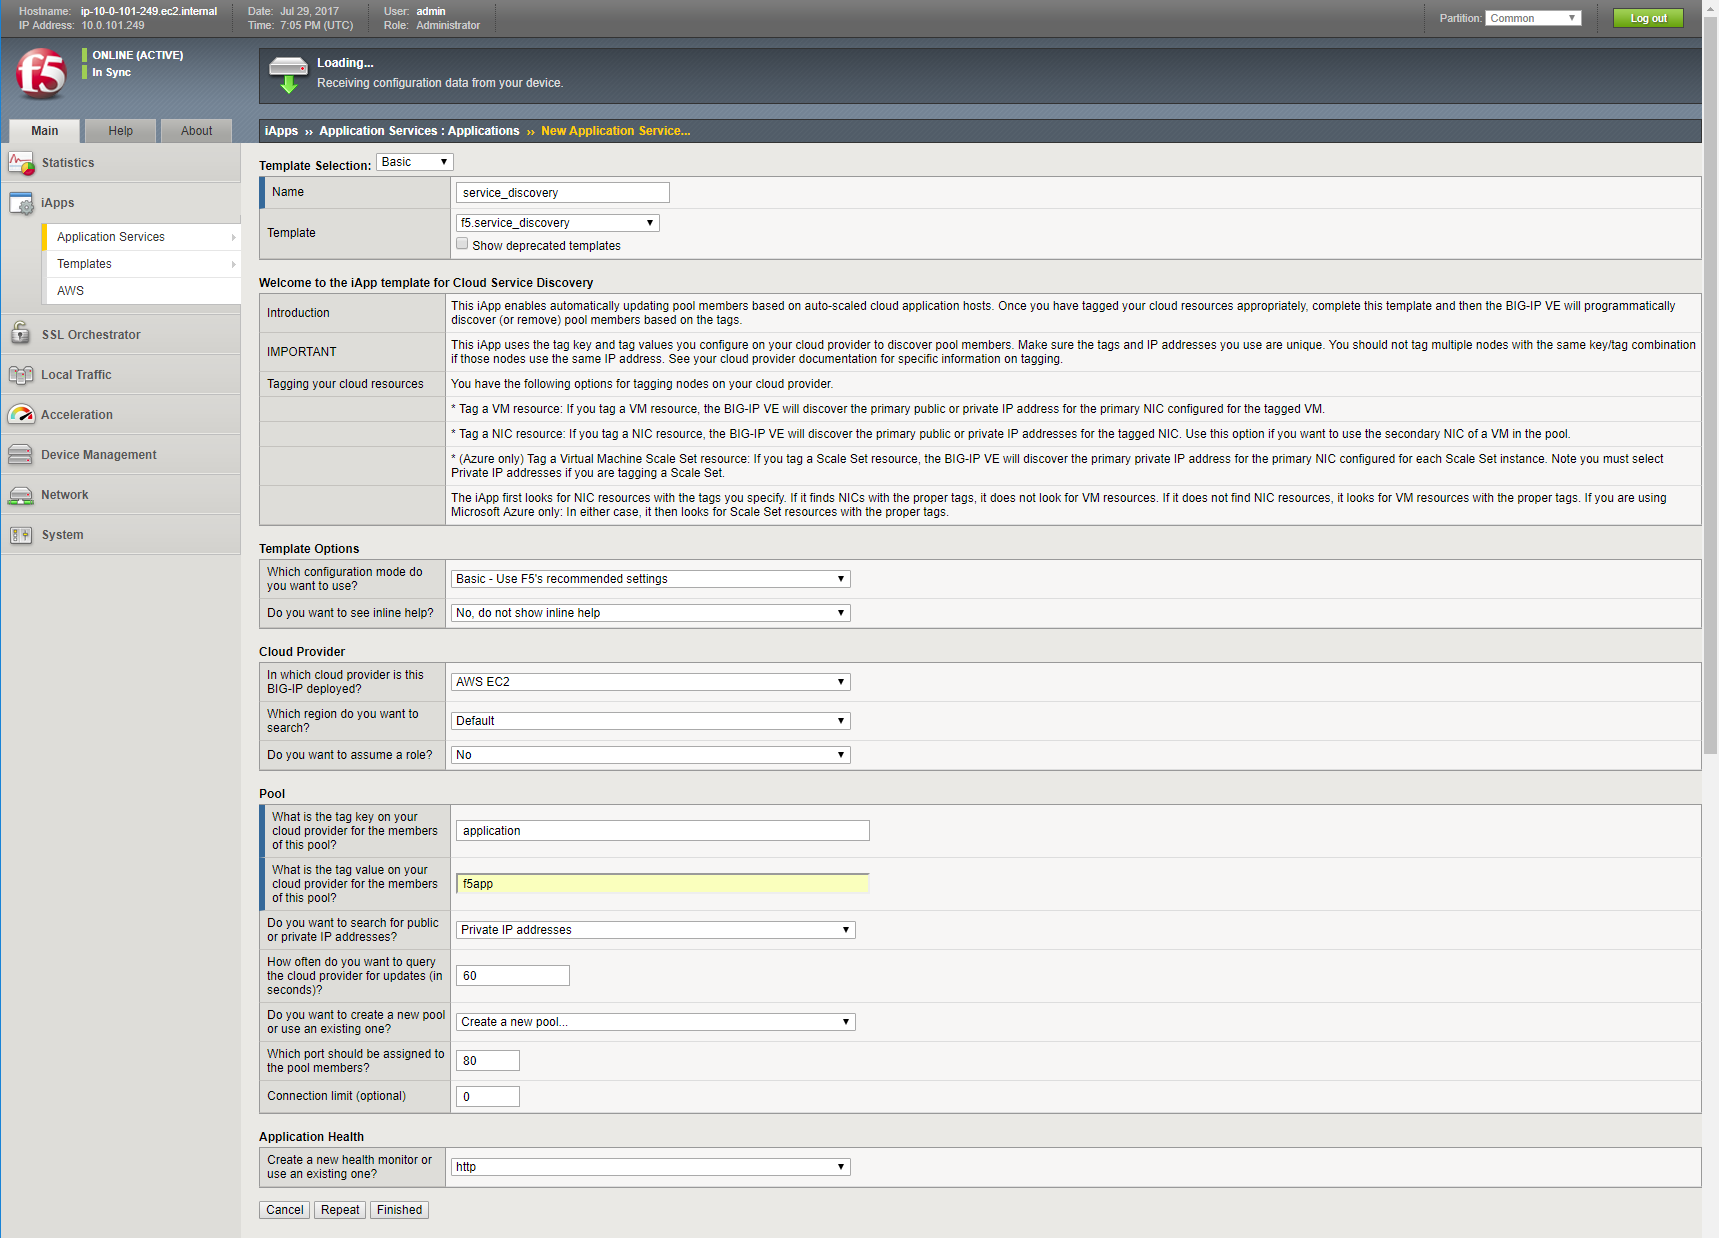
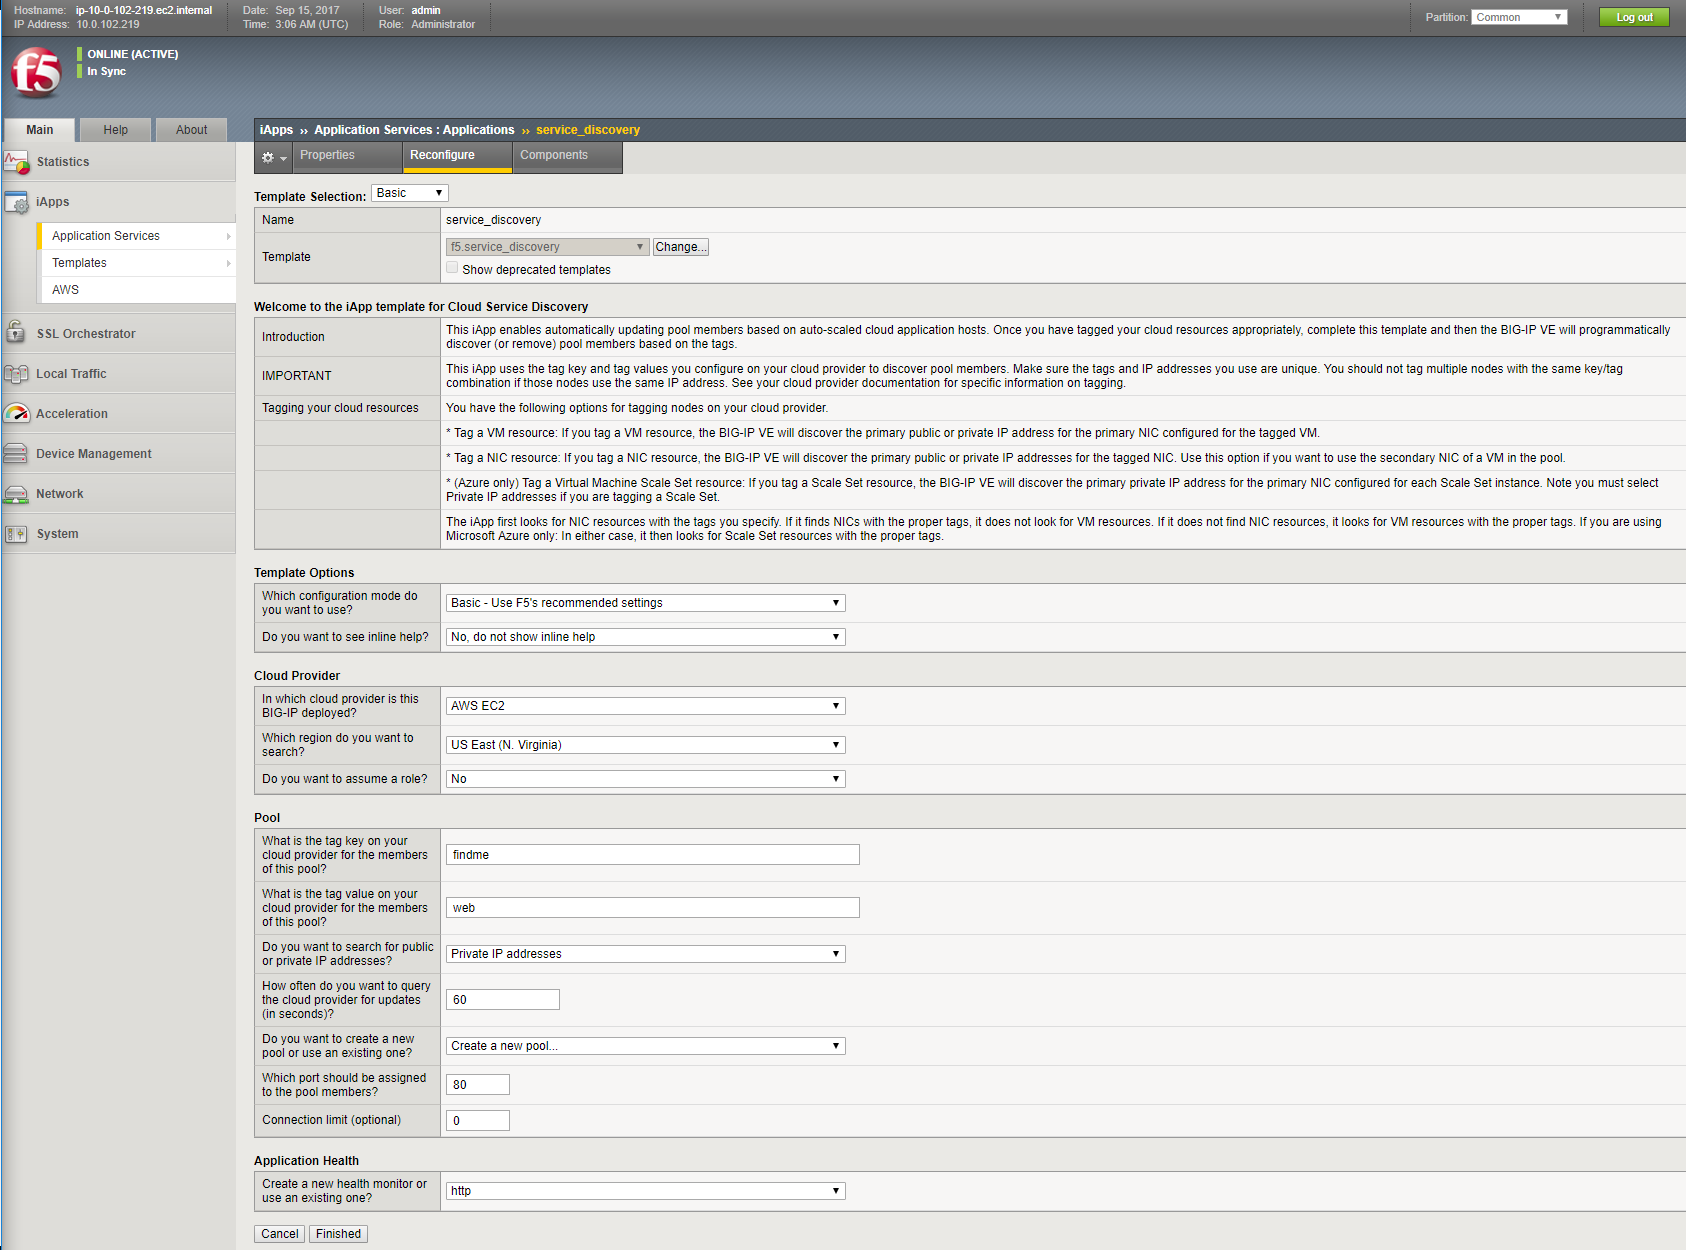
documentation edits based on team feedback

Changed region(s): [[0.0, 0.0, 1.0, 1.0], [0.987, 0.9208, 1.0, 0.9515]]

diff --git a/docs/class1/module2/lab1.rst b/docs/class1/module2/lab1.rst
@@ -1,28 +1,6 @@
 Explore the F5 / AWS lab environment
 ------------------------------------
 
-CloudFormation templates are the AWS declarative method to deploy full application stacks to AWS.
-
-F5 Virtual Edition can be deployed via CloudFormation Templates and are an F5 officially supported deployment method.
-
-During the previous lab you deployed via Terraform the following F5 CFT Solution.
-
-- Auto scaling the BIG-IP VE Web Application Firewall in AWS:
-
-https://github.com/F5Networks/f5-aws-cloudformation/tree/master/supported/solutions/autoscale/waf/
-
-.. image:: ./images/config-diagram-autoscale-waf.png
-  :scale: 50%
-
-...you also deployed:
-
-- "Deploying the BIG-IP in AWS - Clustered 2-NIC across Availability Zones" which supports automatic Big-IQ Licensing (we opted to use hourly billing in the previous lab):
-
-https://github.com/F5Networks/f5-aws-cloudformation/tree/master/supported/cluster/2nic/across-az-ha
-
-.. image:: ./images/aws-2nic-cluster-across-azs.png
-  :scale: 50%
-
 1. Use the alias aws console link, email address, and shortUrl as password to login to the aws console.
 
 .. image:: ./images/aws-console-login1.png
@@ -51,22 +29,17 @@ https://f5agility2017.signin.aws.amazon.com/console?region=ap-southeast-1
 .. image:: ./images/aws-console-vpc.png
   :scale: 50%
 
-4. Track things are going well in the AWS management console: Services => Management Tools => CloudFormation template. When done, both of your deployed CloudFormation templates will be Status: CREATE_COMPLETE. Here you can expand and review the steps or troubleshoot if something went wrong.
-
-.. image:: ./images/aws-console-cloudformation.png
-  :scale: 50%
-
-5. Navigate to Services => Compute => EC2 => INSTANCES => Instances. The web application is hosted on webaz1.0 in one availability zone and webaz2.0 in another availability zone. Highlight web-az1.0, in the "Description" tab below note the availability zone. Highlight web-az2.0 and do the same. Select the Tags tab for web-az1.0 and web-az2.0. We will use these tags later in the lab to autodiscover these instances as pool members from a Big-IP VE.
+4. Navigate to Services => Compute => EC2 => INSTANCES => Instances. The web application is hosted on webaz1.0 in one availability zone and webaz2.0 in another availability zone. Highlight web-az1.0, in the "Description" tab below note the availability zone. Highlight web-az2.0 and do the same. Select the Tags tab for web-az1.0 and web-az2.0. We will use these tags later in the lab to autodiscover these instances as pool members from a Big-IP VE.
 
 .. image:: ./images/aws-console-ec2-az.png
   :scale: 50%
 
-6. Three Big-IP virtual editions are running:
+5. Three Big-IP virtual editions are running:
 
    - BIGIP1 and BIGIP2 are in a cross-availability zone cluster that was deployed via a CloudFormation template.
    - BIG-IP Autoscale Instance is the first F5 web application firewall provisioned for Application Security Manager with a low, medium, or high starter policy enabled. Depending on configurable traffic thresholds the WAF will scale from 1 to N instances. These thresholds are controlled via an auto scale group policy.
 
-7.  Cloud-init. Version 13 of Big-IP supports cloud-init. Right click on BIGIP1 => Instance Settings => View/Change User Data. Cloud-init is the industry standard way to inject commands into an F5 cloud image to automate all aspects of the on-boarding process: https://cloud-init.io/.
+6.  Cloud-init. Version 13 of Big-IP supports cloud-init. Right click on BIGIP1 => Instance Settings => View/Change User Data. Cloud-init is the industry standard way to inject commands into an F5 cloud image to automate all aspects of the on-boarding process: https://cloud-init.io/.
 
 .. image:: ./images/aws-console-cloud-init1.png
   :scale: 50%
@@ -74,11 +47,11 @@ https://f5agility2017.signin.aws.amazon.com/console?region=ap-southeast-1
 .. image:: ./images/aws-console-cloud-init2.png
   :scale: 50%
 
-8. Services => Compute => EC2 => AUTO SCALING => Auto Scaling Groups.
+7. Services => Compute => EC2 => AUTO SCALING => Auto Scaling Groups.
    - In the search filter enter your username. Highlight the waf... auto scaling group.
    - Under the "Scaling Policies" tab below review the policy for scaling up and scaling down.
 
-9. Services => Compute => EC2 => LOAD BALANCING => Load Balancers. In the search filter enter your username. You should see your newly created elastic load balancers running.
+8. Services => Compute => EC2 => LOAD BALANCING => Load Balancers. In the search filter enter your username. You should see your newly created elastic load balancers running.
 
    - Choose the tf-elb-userXX load balancer and highlight the "Instances" tab below. This is the load balancer that is in front of your simple web application hosted on web-az1.0 and web-az2.0.
    - Choose the waf-userXX load balancer and highlight the "Instances" tab below. This is the load balancer that is in front of your F5 web application firewall(s).
@@ -88,7 +61,7 @@ https://f5agility2017.signin.aws.amazon.com/console?region=ap-southeast-1
 .. image:: ./images/aws-console-elb2.png
   :scale: 50%
 
-10. GitHub. Fully supported F5 Networks Solutions are hosted in the official F5 Networks GitHub repository:
+9. GitHub. Fully supported F5 Networks Solutions are hosted in the official F5 Networks GitHub repository:
 
    - https://github.com/f5networks
    - We are running the lab from the f5-super-devops container: https://github.com/f5devcentral/f5-super-netops-container
@@ -100,4 +73,48 @@ https://f5agility2017.signin.aws.amazon.com/console?region=ap-southeast-1
    - Native template formats are also available for Google Cloud Platform (gdm templates): https://github.com/F5Networks/f5-google-gdm-templates
 
 .. image:: ./images/f5-github.png
+  :scale: 50%
+
+10. CloudFormation Templates mock walk-through. CloudFormation templates are the AWS declarative method to deploy full application stacks to AWS.
+
+F5 Virtual Edition can be deployed via CloudFormation Templates and are an F5 officially supported deployment method.
+
+During the previous lab you deployed via Terraform the following F5 CFT Solution.
+
+- "Deploying the BIG-IP in AWS - Clustered 2-NIC across Availability Zones" which supports automatic Big-IQ Licensing (we opted to use hourly billing in the previous lab):
+
+https://github.com/F5Networks/f5-aws-cloudformation/tree/master/supported/cluster/2nic/across-az-ha
+
+.. image:: ./images/aws-2nic-cluster-across-azs.png
+  :scale: 50%
+
+...you also deployed:
+
+- Auto scaling the BIG-IP VE Web Application Firewall in AWS:
+
+https://github.com/F5Networks/f5-aws-cloudformation/tree/master/supported/solutions/autoscale/waf/
+
+.. image:: ./images/config-diagram-autoscale-waf.png
+  :scale: 50%
+
+11. Go to https://github.com/F5Networks/f5-aws-cloudformation/tree/master/supported/cluster/2nic/across-az-ha.
+
+12. Scroll to and then click the "Launch Stack" icon for "Hourly..."
+
+.. image:: ./images/cft1.png
+  :scale: 50%
+
+13. In the "Create Stack" screen, click "Next".
+
+.. image:: ./images/cft2.png
+  :scale: 50%
+
+14. This will render the template from within the AWS console. Fill in the first few parameters by choosing from the drop-down menus. The options present were created previously via Terraform. No need to complete the CloudFormation stack here. Terraform has already stuffed these parameters and fired off the completed CloudFormation template. Think about how many steps we've saved by fully automating the solution. Scroll down and click "Cancel"
+
+.. image:: ./images/cft3.png
+  :scale: 50%
+
+15. Track things are going well in the AWS management console: Services => Management Tools => CloudFormation template. When done, both of your deployed CloudFormation templates will be Status: CREATE_COMPLETE. Here you can expand and review the steps or troubleshoot if something went wrong.
+
+.. image:: ./images/aws-console-cloudformation.png
   :scale: 50%

diff --git a/docs/class1/module1/lab1.rst b/docs/class1/module1/lab1.rst
@@ -117,6 +117,42 @@ When 'terraform apply' completes, note the \*\*aws_alias\*\* and vpc-id values. 
 
 .. warning:: terraform apply will take five minutes to complete, but the environment will not be ready for another 15 minutes as the Big-IP virtual editions and supporting infrastructure wake up. In the meantime, we can begin to explore the AWS lab environment.
 
+What just happened? That was a lot of random text scrolling in my Docker console!
+---------------------------------------------------------------------------------
+
+This is the TL;DR version of the steps completed.
+
+When you clone the git repository, you are pulling down a fresh copy of the all of the files you need to get started. These files are hosted on Github, the most popular online revision control repository, and include:
+
+- Onboarding scripts that create your AWS account and other prerequisites: *f5-super-netops-install.sh*, *addUser.sh*, *export.sh*.
+- all of the terraform configuration files--a declarative, comprehensive representation of our entire application stack:
+
+	*main.tf* - Every terraform configuration has a main.tf. This contains all of the AWS specific (non-F5) environment configuration, including web instances
+
+	*f5-cloudformation-autoscale-waf.tf* and *f5-cloudformation-cross-az-ha-hourly.tf* - Nothing more than a terraform file that takes the officially supported CloudFormation template hosted at:
+
+	https://s3.amazonaws.com/f5-cft/f5-autoscale-bigip.template
+
+	https://s3.amazonaws.com/f5-cft/f5-existing-stack-across-az-cluster-hourly-2nic-bigip.template
+
+	...and stuffs all of the prerequisite parameters so we don't have to do it manually.
+
+	*outputs.tf* - Any variable in the outputs.tf file can be rendered to the console with 'terraform output' and is exposed to other command line tools.
+
+	*vars.tf* - Variables for terraform.
+
+- Handy utilities to help move the lab along with minimum fuss: *lab-info*, *password-reset*, *lab-cleanup*.
+
+The start script takes care of all of the prerequisites to standing up an AWS environment. Precisely:
+
+- Installs all of the necessary software, including: terraform, the aws cli, and various other command line tools.
+- Creates your AWS console login and api account and stores the keys locally for use by the AWS command line.
+- Creates SSH keys for use by all of your EC2 instances: web servers and Big-IP virtual editions.
+- Creates a self-signed SSL certificate for use in deploying https services.
+- Sets the default region: us-east-1 (Virginia), ap-southeast-1 (Singapore), etc.
+
+The terraform files go into effect when you invoke 'terraform apply'. This step makes use of all of the prerequisites from the step before to build the environment in AWS.
+
 Video example
 -------------
 This video_ walks through all of the steps in this part of the lab. The emailid and shortUrl values used are only examples and no longer valid. You can pause, cut, and paste from the example, but always remember to replace the example values with the values assigned to you by the lab instructor.

diff --git a/docs/class1/module3/lab3.rst b/docs/class1/module3/lab3.rst
@@ -20,9 +20,9 @@ Deploy the Service Discovery iApp on a BigIP Cluster across two Availability Zon
 +----------------------------------------------------------------------------+----------------------------------+
 | Pool                                                                                                          |
 +----------------------------------------------------------------------------+----------------------------------+
-| What is the tag key on your cloud provider for the members of this pool?   | application                      |
+| What is the tag key on your cloud provider for the members of this pool?   | findme                           |
 +----------------------------------------------------------------------------+----------------------------------+
-| What is the tag value on your cloud provider for the members of this pool? | f5app                            |
+| What is the tag value on your cloud provider for the members of this pool? | web                              |
 +----------------------------------------------------------------------------+----------------------------------+
 | Do you want to create a new pool or use an existing one?                   | Create new pool...               |
 +----------------------------------------------------------------------------+----------------------------------+

diff --git a/docs/class1/module3/lab4.rst b/docs/class1/module3/lab4.rst
@@ -74,10 +74,17 @@ Deploy an AWS High-Availability-aware virtual server across two Availability Zon
   :scale: 50%
 
 
-14. From the Big-IP configuration utility let's simulate an availability zone failure. Navigate to Device management -> Devices -> click on the active unit and "Force Offline".
+14. From the Big-IP configuration utility let's simulate an availability zone failure. Navigate to Local Traffic -> Pools -> Pool List -> service_discover_pool -> Members -> Select the primary pool member and "Force Offline"
+
+.. image:: ./images/pool-member-offline.png
+  :scale: 50%
+
+15. Navigate to Device management -> Devices -> click on the active unit and "Force Offline".
 
 .. image:: ./images/force-offline.png
   :scale: 50%
+
+16. Cross Availability Zone begins.
 
 .. code-block:: bash
 
@@ -99,7 +106,7 @@ Deploy an AWS High-Availability-aware virtual server across two Availability Zon
    X-COLOR: a0bf37
    Connection: keep-alive
 
-15. Note the example web site behind virtual_server_1 is now being served up from another availability zone!
+17. Note the example web site behind virtual_server_1 is now being served up from another availability zone!
 
 .. image:: ./images/ha-example-site1.png
   :scale: 50%

diff --git a/docs/class1/module3/lab2.rst b/docs/class1/module3/lab2.rst
@@ -13,6 +13,20 @@ Configuration Utility (Web UI) access
 
    Before creating an admin password on your Big-IPs you must be certain that cloud-init has finished the Big-IP onboarding process. Wait until **"STATUS:      MCPD is up, System Ready"**.
 
+.. attention::
+
+   Before creating an admin password on your Big-IPs check that your shortUrl still exists as an environment variable:
+
+   .. code-block:: bash
+
+      echo $shortUrl
+
+   ...if it does not, you will have to export again. For example, if the shortUrl=abc123 then:
+
+   .. code-block:: bash
+
+      export shortUrl=abc123   
+
 
 2. Use the reset-password script to create an admin password. Perforrm this task for all three of the MGMT IP's. Replace the example IP address in the example below with the MGMT IP addresses specific to your lab.
 
